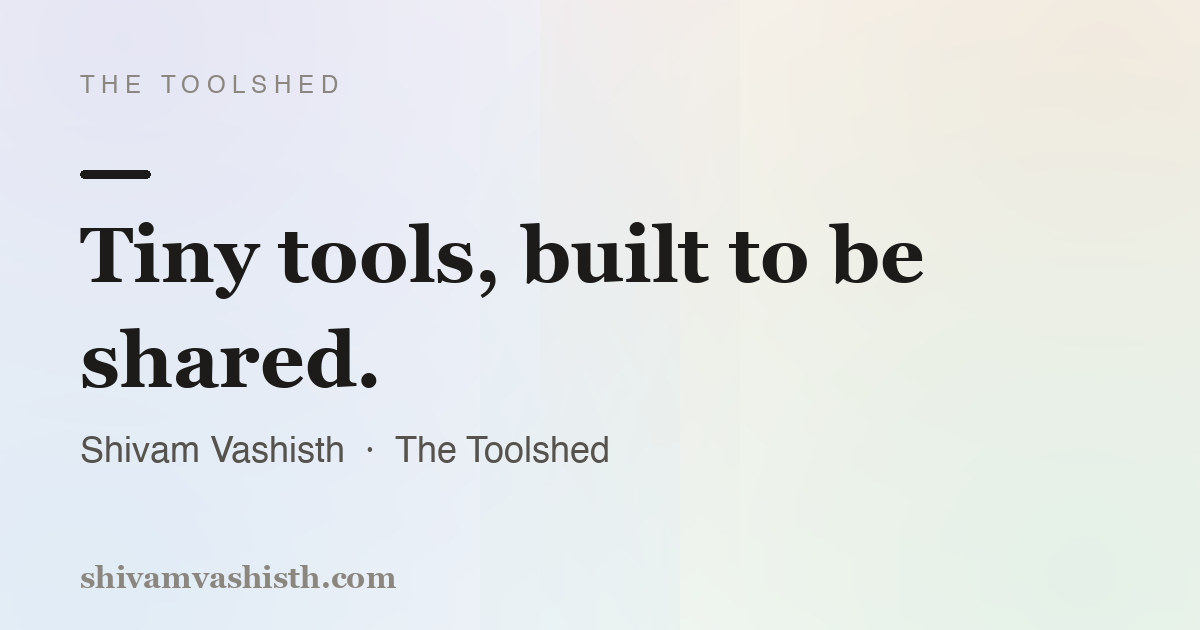
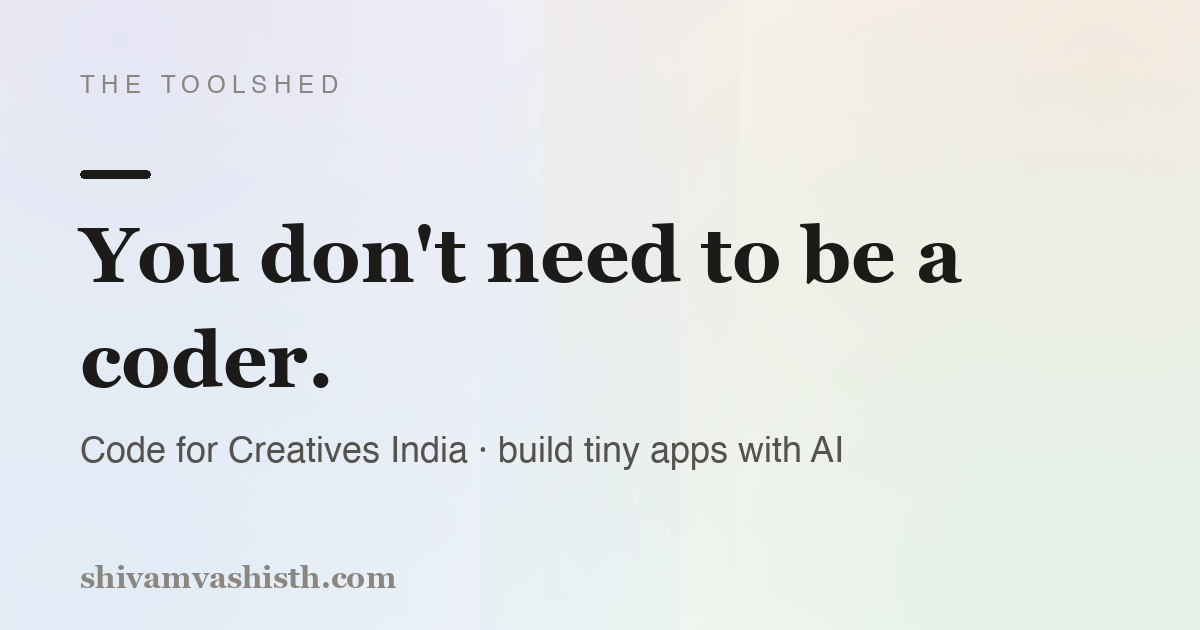
rebrand to Code for Creatives India
New hero (you don't need to be a coder), the Where it breaks mission section, rename Toolshed to the Garage, three-ways block, I-actually-reply trust strip, hover and tap jargon definitions, Garage microcopy. House style, no em dashes.

Changed region(s): [[0.0617, 0.3317, 0.8017, 0.4825], [0.0617, 0.6937, 0.7092, 0.754], [0.0617, 0.5127, 0.3083, 0.6333]]

diff --git a/index.html b/index.html
@@ -3,12 +3,12 @@
 <head>
 <meta charset="UTF-8">
 <meta name="viewport" content="width=device-width, initial-scale=1.0">
-<title>Shivam Vashisth — operator, not engineer. Tiny tools, built to be shared.</title>
-<meta name="description" content="I make small things on the internet. Some are useful, all are quick. A shed of tiny share-first tools, shipped weekly with AI.">
+<title>Code for Creatives India: you don't need to be a coder. Build tiny apps with AI.</title>
+<meta name="description" content="Code for Creatives India. A YouTube strategist building tiny apps with AI, and showing creators how to build their own. No dev team, no CS degree.">
 <link rel="canonical" href="https://shivamvashisth.com/">
 <meta property="og:type" content="website">
-<meta property="og:title" content="Shivam Vashisth — The Toolshed">
-<meta property="og:description" content="Operator, not engineer. I build tiny tools, most of them made to be shared.">
+<meta property="og:title" content="Code for Creatives India: you don't need to be a coder">
+<meta property="og:description" content="I'm a YouTube strategist who builds tiny apps with AI. If you can write a prompt, you can build one too. I'll show you how.">
 <meta property="og:url" content="https://shivamvashisth.com/">
 <meta property="og:image" content="https://shivamvashisth.com/assets/og-home.png">
 <meta name="twitter:card" content="summary_large_image">
@@ -17,12 +17,12 @@
 <link rel="stylesheet" href="/assets/brand.css">
 </head>
 <body>
-<h1 class="sr-only">Shivam Vashisth — The Toolshed: tiny tools built to be shared</h1>
+<h1 class="sr-only">Code for Creatives India: you don't need to be a coder to build tiny apps with AI</h1>
 
 <nav class="nav"><div class="wrap">
   <a class="brand" href="/">Shivam&nbsp;Vashisth</a>
   <div class="links">
-    <a href="#toolshed">The Toolshed</a>
+    <a href="#toolshed">The Garage</a>
     <a href="#cases" class="hide-sm">Case studies</a>
     <a href="#about" class="hide-sm">About</a>
     <a href="#contact">Contact</a>
@@ -46,12 +46,13 @@
         </svg>
       </div>
       <p class="eyebrow" style="margin-top:18px">Hi, I'm Shivam</p>
-      <h1 style="margin-top:0"><span class="ink-underline">Operator, not engineer.</span></h1>
-      <p class="lead">I build tiny tools — most of them made to be shared. Words, data, and small machines, shipped weekly with AI.</p>
+      <h1 style="margin-top:0"><span class="ink-underline">You don't need to be a coder.</span></h1>
+      <p class="lead">Code for Creatives India. I'm a YouTube strategist who builds tiny apps with AI: no dev team, no CS degree. If you can write a <span class="jargon" data-define="prompt">prompt</span>, you can build one too. I'll show you how.</p>
       <div class="row" style="margin-top:8px">
-        <a class="btn" href="#toolshed">Explore the Toolshed</a>
-        <a class="btn ghost" href="#contact">Say hi</a>
+        <a class="btn" href="#toolshed">Open the Garage</a>
+        <a class="btn ghost" href="https://instagram.com/svx2027" target="_blank" rel="noopener">Follow on Instagram</a>
       </div>
+      <p class="jargon-hint" style="margin-top:14px">Tip: tap any underlined word (like <span class="jargon" data-define="prompt">prompt</span>) for plain English.</p>
     </div>
 
     <!-- micro-toy: Thumbnail Showdown -->
@@ -67,19 +68,32 @@
         <span class="muted mono" style="font-size:.8rem">best <span id="sd-best">0</span></span>
         <button class="btn ghost" id="sd-share" style="padding:.5rem 1rem;font-size:.9rem">Share my streak</button>
       </div>
+      <p class="muted" style="font-size:.78rem;margin:12px 0 0">Built by a YouTube strategist, so the thumbnails fight dirty.</p>
     </div>
   </div>
-  <p class="center muted" style="margin-top:44px;font-size:.9rem">↓ scroll to the shed</p>
+  <p class="center muted" style="margin-top:44px;font-size:.9rem">↓ scroll to the garage</p>
 </header>
 
-<!-- ===================== TOOLSHED ===================== -->
+<!-- ===================== MISSION ===================== -->
+<section id="mission">
+<div class="wrap" style="max-width:720px">
+  <p class="eyebrow">The mission</p>
+  <h2>Where it breaks</h2>
+  <p class="lead">Right now, someone in Sweden is building something brilliant and putting it on <span class="jargon" data-define="github">GitHub</span>, free, for anyone on earth to use. A creator sitting here could grow with that exact tool. They never will.</p>
+  <p>Not because they lack the talent. Because nobody gave them the words. What GitHub is. How to actually run the thing once you find it. How a <span class="jargon" data-define="skill">skill</span> in Claude could quietly do half your work. The tool is free. The talent is real. The bridge between them was never built, so it sits there, useless to the people who need it most, while their growth stalls in silence.</p>
+  <p>That is the gap I care about, and it is the whole reason this exists. I am not here to build your tools for you. I am here to hand you the vocabulary: enough words to open a real conversation with AI, ask the right next question, and then teach yourself, about ten times faster than guessing in the dark.</p>
+  <p class="mission-close serif">Give a creator the words, and they cross the bridge on their own.</p>
+</div>
+</section>
+
+<!-- ===================== THE GARAGE ===================== -->
 <section id="toolshed">
 <div class="wrap">
-  <p class="eyebrow center">The Toolshed</p>
-  <h2 class="center">A shed of tiny tools</h2>
-  <p class="lead center" style="margin:0 auto 28px">Live ones open in a tap. The rest are brewing — the shed fills up week by week.</p>
+  <p class="eyebrow center">The Garage</p>
+  <h2 class="center">A garage full of tiny apps</h2>
+  <p class="lead center" style="margin:0 auto 28px">Built in public. Live builds open in a tap. The rest are up on blocks, getting finished. New one most weeks: follow <a href="https://instagram.com/svx2027" target="_blank" rel="noopener">@svx2027</a> to watch each one come together, ugly first drafts and all.</p>
 
-  <div class="filters center" role="tablist" aria-label="Filter tools">
+  <div class="filters center" role="tablist" aria-label="Filter apps">
     <button class="chip active" data-filter="all">All</button>
     <button class="chip" data-filter="everyone">For everyone</button>
     <button class="chip" data-filter="creator">For creators</button>
@@ -97,18 +111,18 @@
   <div class="cases">
     <article class="card pad">
       <h3>This very site</h3>
-      <p>Built blank-folder-to-live in an afternoon: static HTML, a shared canvas "share-card" engine, and a pastel watercolour brand in one CSS file. No framework, no database.</p>
-      <p class="muted" style="font-size:.9rem"><strong>Skipped:</strong> a CMS. Every page is just files — easy to host anywhere, free.</p>
+      <p>Built blank-folder-to-live in an afternoon: <span class="jargon" data-define="static">static</span> HTML, a shared <span class="jargon" data-define="canvas">canvas</span> share-card engine, and a pastel watercolour brand in one CSS file. No framework, no database.</p>
+      <p class="muted" style="font-size:.9rem"><strong>Skipped:</strong> a CMS. Every page is just files, so it is easy to host anywhere, free.</p>
     </article>
     <article class="card pad">
       <h3>The share-card pattern</h3>
-      <p>Every tool exports a 1080×1920 PNG from a single reusable canvas function. Build it once, reuse it everywhere — the card <em>is</em> the marketing.</p>
+      <p>Every app exports a 1080×1920 <span class="jargon" data-define="png">PNG</span> from a single reusable canvas function. Build it once, reuse it everywhere: the card <em>is</em> the marketing.</p>
       <p class="muted" style="font-size:.9rem"><strong>Skipped:</strong> server-side image rendering. The browser draws it; nothing leaves your device.</p>
     </article>
     <article class="card pad">
       <h3>Privacy by default</h3>
-      <p>Life in Weeks never sends your birthday anywhere. Aligned encodes its quiz state in the URL, so two people can play with zero backend.</p>
-      <p class="muted" style="font-size:.9rem"><strong>Skipped:</strong> accounts and tracking, until a tool genuinely needs them.</p>
+      <p>Life in Weeks never sends your birthday anywhere. Aligned encodes its quiz state in the URL, so two people can play with zero <span class="jargon" data-define="backend">backend</span>.</p>
+      <p class="muted" style="font-size:.9rem"><strong>Skipped:</strong> accounts and tracking, until an app genuinely needs them.</p>
     </article>
   </div>
 </div>
@@ -118,24 +132,49 @@
 <section id="about">
 <div class="wrap" style="max-width:760px">
   <p class="eyebrow">About</p>
-  <h2>From notes to tiny machines</h2>
-  <p class="lead">I spend my days deep in content and data — competitive intelligence for education YouTube, transcripts, market data. Along the way I kept building little tools to make the work less manual.</p>
-  <p>This shed is where the general-audience ones live: small, fast, and built so the output is something you'd actually want to post. I'm an operator who learned to ship with AI in the terminal — the judgment of <em>what</em> to build matters more than the code.</p>
+  <h2>If I can do this, you can too</h2>
+  <p class="lead">By day I'm a YouTube strategist, deep in content and data: competitive intelligence for education channels, transcripts, market numbers. I kept building little tools to make the grind less manual, then realised creators everywhere fight the same grind.</p>
+  <p>So I started Code for Creatives India: tiny apps anyone can build with AI, no dev team, no degree. I learned to do this with AI doing the heavy lifting, which means the judgment of <em>what</em> to build matters far more than the code. I'm documenting the whole thing on <a href="https://instagram.com/svx2027" target="_blank" rel="noopener">Instagram</a>.</p>
 </div>
 </section>
 
-<!-- ===================== CONTACT / NOW ===================== -->
-<section id="contact">
+<!-- ===================== TRUST STRIP ===================== -->
+<section id="reply">
 <div class="wrap" style="max-width:680px">
   <div class="card pad center">
-    <p class="eyebrow">Now &amp; next</p>
-    <h2 style="margin-bottom:.3rem">Shipping a new tool most weeks</h2>
-    <p class="lead" style="margin:0 auto 20px">Drop your email and I'll send the next one when it's live. No spam, just tools.</p>
-    <form id="subscribe" class="row" style="justify-content:center;gap:10px;flex-wrap:nowrap;max-width:460px;margin:0 auto">
-      <input type="email" id="sub-email" placeholder="you@email.com" aria-label="Your email" required>
-      <button class="btn" type="submit">Notify me</button>
-    </form>
-    <p class="muted" style="font-size:.85rem;margin-top:14px">or just email <a href="mailto:hi@shivamvashisth.com">hi@shivamvashisth.com</a></p>
+    <p class="eyebrow">Trust</p>
+    <h2 style="margin-bottom:.3rem">I actually reply.</h2>
+    <p class="lead" style="margin:0 auto 20px">No funnel, no auto-DM, no growth hack. Ask me anything on Instagram and I answer it myself. In a feed full of automation, that is the whole trust pitch.</p>
+    <a class="btn" href="https://instagram.com/svx2027" target="_blank" rel="noopener">DM me on Instagram</a>
+  </div>
+</div>
+</section>
+
+<!-- ===================== CONTACT / STICK AROUND ===================== -->
+<section id="contact">
+<div class="wrap" style="max-width:680px">
+  <div class="card pad">
+    <p class="eyebrow center">Stick around</p>
+    <h2 class="center" style="margin-bottom:1.4rem">Three ways to stick around</h2>
+    <div class="ways">
+      <div class="way">
+        <h3>Bookmark the Garage</h3>
+        <p>It restocks every week. Ctrl+D, or Cmd+D on Mac, and come back.</p>
+      </div>
+      <div class="way">
+        <h3>Get the drop</h3>
+        <p>Leave your email and I'll send the next app the day it goes live. No spam, just tools.</p>
+        <form id="subscribe" class="row" style="gap:10px;flex-wrap:nowrap;max-width:460px;margin-top:8px">
+          <input type="email" id="sub-email" placeholder="you@email.com" aria-label="Your email" required>
+          <button class="btn" type="submit">Send me the next app</button>
+        </form>
+      </div>
+      <div class="way">
+        <h3>Follow the build</h3>
+        <p><a href="https://instagram.com/svx2027" target="_blank" rel="noopener">@svx2027</a> on Instagram, where I show the messy middle and reply to every DM myself. No bots, no VA. That's me.</p>
+        <a class="btn ghost" href="https://instagram.com/svx2027" target="_blank" rel="noopener" style="margin-top:8px">Follow on Instagram</a>
+      </div>
+    </div>
   </div>
 </div>
 </section>
@@ -168,6 +207,13 @@
   .tool-card p{margin:0;font-size:.9rem;color:var(--ink-soft)}
   .tool-card .tags{display:flex;gap:6px;flex-wrap:wrap;margin-top:auto;padding-top:6px}
   .cases{display:grid;grid-template-columns:repeat(3,1fr);gap:18px;margin-top:8px}
+  .ways{display:grid;gap:1.3rem}
+  .way{padding-bottom:1.3rem;border-bottom:1px solid var(--line)}
+  .way:last-child{border-bottom:0;padding-bottom:0}
+  .way h3{margin:0 0 .25rem;font-size:1.1rem}
+  .way p{margin:0}
+  #mission{padding-top:40px}
+  .mission-close{font-size:1.4rem;line-height:1.32;color:var(--ink);margin:1.5rem 0 0;padding-top:1.3rem;border-top:1px solid var(--line)}
   @media(max-width:820px){.hero-grid{grid-template-columns:1fr!important}.grid{grid-template-columns:repeat(2,1fr)}.cases{grid-template-columns:1fr}}
   @media(max-width:560px){.grid{grid-template-columns:1fr}.sd-thumb .pic{height:88px}}
 </style>
@@ -177,7 +223,7 @@
 <script>
   document.getElementById('foot').innerHTML = TS.footer();
 
-  /* ---------- Toolshed grid ---------- */
+  /* ---------- the Garage grid ---------- */
   const TOOLS = [
     {slug:'life-in-weeks', name:'Life in Weeks', desc:'See your whole life as a grid of weeks, then post it.', aud:'everyone', live:true, c:'#DCEAF5', ac:'#2f6fae', icon:'grid'},
     {slug:'read-rate', name:'Read Rate', desc:'Find your real reading speed in 60 seconds.', aud:'everyone', live:true, c:'#DFF0E6', ac:'#2f8f63', icon:'gauge'},
@@ -202,7 +248,7 @@
   const grid = document.getElementById('grid');
   function renderGrid(filter='all'){
     grid.innerHTML = TOOLS.filter(t=>filter==='all'||t.aud===filter).map(t=>{
-      const tag = `<span class="pill ${t.live?'live':'brewing'}">${t.live?'live':'brewing'}</span><span class="pill ${t.aud}">${t.aud==='creator'?'creators':'everyone'}</span>`;
+      const tag = `<span class="pill ${t.live?'live':'brewing'}">${t.live?'live':'on blocks'}</span><span class="pill ${t.aud}">${t.aud==='creator'?'creators':'everyone'}</span>`;
       const inner = `<div class="ic" style="background:${t.c}">${svgIcon(t.icon,t.ac)}</div>
         <h3>${t.name}</h3><p>${t.desc}</p><div class="tags">${tag}</div>`;
       return t.live
@@ -225,7 +271,7 @@
     if (!Array.isArray(subs)) subs = [];
     subs.push({ email: v, tool: 'home', at: new Date().toISOString() });
     try{ localStorage.setItem('ts_sub', JSON.stringify(subs)); }catch(_){}
-    TS.toast('Thanks! I’ll email you when the next tool ships.');
+    TS.toast('Thanks! I’ll email you when the next app ships.');
     e.target.reset();
   });
 </script>

diff --git a/assets/shared.js b/assets/shared.js
@@ -162,17 +162,72 @@
   TS.footer = function () {
     const year = new Date().getFullYear();
     return `<footer class="foot"><div class="wrap">
-      <span>© ${year} Shivam Vashisth · built with AI, shipped weekly</span>
-      <span><a href="/">The Toolshed</a> · <a href="mailto:hi@shivamvashisth.com">hi@shivamvashisth.com</a></span>
+      <span>Made in a garage, with AI, by one creator who replies to DMs.</span>
+      <span>© ${year} Code for Creatives India · <a href="/">The Garage</a> · <a href="https://instagram.com/svx2027" target="_blank" rel="noopener">@svx2027</a> · <a href="mailto:hi@shivamvashisth.com">hi@shivamvashisth.com</a></span>
     </div></footer>`;
   };
 
-  // standard back-to-shed bar for tool pages
+  // standard back-to-Garage bar for tool pages
   TS.toolnav = function () {
     return `<nav class="toolnav"><div class="wrap">
-      <a class="back" href="/">← The Toolshed</a>
+      <a class="back" href="/">← The Garage</a>
       <a class="back" href="/#toolshed">more tools</a>
     </div></nav>`;
+  };
+
+  /* ---------- jargon: plain-English definitions on hover / tap ---------- */
+  TS.GLOSSARY = {
+    prompt: "What you type to tell an AI what you want.",
+    terminal: "The text window where you type commands. Scarier-looking than it is.",
+    ship: "To actually release it, not just plan it forever.",
+    "no-code": "Building software with visual tools or AI, without writing code.",
+    static: "A website that is just files. Fast, cheap, hard to break.",
+    canvas: "The browser's drawing board. It's how the share-cards get made.",
+    backend: "The server side you never see. Most apps here skip it.",
+    api: "A way for two apps to talk to each other.",
+    png: "An image file, the kind you would actually post.",
+    github: "A giant, free library of code and tools anyone can use.",
+    skill: "A saved instruction pack that teaches an AI one specific job."
+  };
+  var jCount = 0;
+  TS.initJargon = function () {
+    var nodes = document.querySelectorAll('.jargon[data-define]');
+    for (var i = 0; i < nodes.length; i++) {
+      (function (el) {
+        if (el._jReady) return;
+        var key = (el.getAttribute('data-define') || el.textContent || '').trim().toLowerCase();
+        var def = TS.GLOSSARY[key];
+        if (!def) return;
+        el._jReady = true;
+        var pop = document.createElement('span');
+        pop.className = 'jargon-pop';
+        pop.id = 'jdef-' + (++jCount);
+        pop.setAttribute('role', 'tooltip');
+        pop.textContent = def; // textContent only — never innerHTML
+        el.appendChild(pop);
+        el.setAttribute('tabindex', '0');
+        el.setAttribute('aria-describedby', pop.id);
+        function toggle(e) {
+          e.preventDefault(); e.stopPropagation();
+          var willOpen = !el.classList.contains('open');
+          var others = document.querySelectorAll('.jargon.open');
+          for (var k = 0; k < others.length; k++) others[k].classList.remove('open');
+          if (willOpen) el.classList.add('open');
+        }
+        el.addEventListener('click', toggle);
+        el.addEventListener('keydown', function (e) {
+          if (e.key === 'Enter' || e.key === ' ') toggle(e);
+          else if (e.key === 'Escape') el.classList.remove('open');
+        });
+      })(nodes[i]);
+    }
+    if (!TS._jDoc) {
+      TS._jDoc = true;
+      document.addEventListener('click', function () {
+        var open = document.querySelectorAll('.jargon.open');
+        for (var k = 0; k < open.length; k++) open[k].classList.remove('open');
+      });
+    }
   };
 
   /* ---------- theme (light / dark) ---------- */
@@ -211,6 +266,7 @@
 
   window.TS = TS;
 
-  if (document.readyState === 'loading') document.addEventListener('DOMContentLoaded', TS.initTheme);
-  else TS.initTheme();
+  function TS_init() { TS.initTheme(); TS.initJargon(); }
+  if (document.readyState === 'loading') document.addEventListener('DOMContentLoaded', TS_init);
+  else TS_init();
 })();

diff --git a/assets/brand.css b/assets/brand.css
@@ -230,6 +230,35 @@ body { transition: background-color .45s ease, color .35s ease; }
 [data-theme="dark"] .chip { background: rgba(255,255,255,.05); color: var(--ink-soft); border-color: var(--line-strong); }
 [data-theme="dark"] .chip.active { background: var(--ink); color: var(--paper); border-color: var(--ink); }
 
+/* ---------- jargon: gently-defined tech terms ---------- */
+.jargon {
+  border-bottom: 1px dotted var(--ink-faint);
+  cursor: help; position: relative; color: inherit; text-decoration: none;
+}
+.jargon:focus-visible { outline: 2px solid var(--acc-sky); outline-offset: 2px; border-radius: 2px; }
+.jargon-pop {
+  display: none;
+  position: absolute; left: 50%; bottom: calc(100% + 9px);
+  transform: translateX(-50%);
+  width: max-content; max-width: min(240px, 78vw);
+  background: var(--card); color: var(--ink-soft);
+  border: 1px solid var(--line-strong); border-radius: var(--r-sm); box-shadow: var(--shadow-lift);
+  padding: .5rem .65rem;
+  font-family: var(--font-body); font-size: .82rem; font-weight: 400; line-height: 1.45;
+  letter-spacing: normal; text-transform: none; text-align: left; white-space: normal;
+  z-index: 120;
+}
+.jargon-pop::after {
+  content: ""; position: absolute; top: 100%; left: 50%; transform: translateX(-50%);
+  border: 5px solid transparent; border-top-color: var(--card);
+}
+.jargon:hover .jargon-pop, .jargon:focus .jargon-pop,
+.jargon:focus-within .jargon-pop, .jargon.open .jargon-pop {
+  display: block;
+}
+.jargon-hint { font-size: .82rem; color: var(--ink-faint); }
+.jargon-hint .jargon { border-bottom-style: dotted; }
+
 /* reduced motion */
 @media (prefers-reduced-motion: reduce) {
   * { animation: none !important; transition: none !important; scroll-behavior: auto !important; }

diff --git a/t/outlier-radar/index.html b/t/outlier-radar/index.html
@@ -39,13 +39,13 @@
   <main class="wrap">
     <div class="brew-wrap">
       <div class="card pad brew-card">
-        <p class="eyebrow">brewing</p>
+        <p class="eyebrow">up on blocks</p>
         <div class="pill-row">
           <span class="pill creator">for creators</span>
-          <span class="pill brewing">brewing</span>
+          <span class="pill brewing">on blocks</span>
         </div>
-        <h2 class="serif">See what's overperforming in your niche right now — ranked, with a one-line read on why.</h2>
-        <p class="lead">Not the biggest channels — the biggest surprises. Outlier Radar finds videos beating their own baseline and tells you, briefly, what's working.</p>
+        <h2 class="serif">See what's overperforming in your niche right now: ranked, with a one-line read on why.</h2>
+        <p class="lead">Not the biggest channels, the biggest surprises. Outlier Radar finds videos beating their own baseline and tells you, briefly, what's working.</p>
         <ul class="brew-list">
           <li>Scores each recent upload against its OWN channel's baseline — an outlier multiplier — plus views-per-hour velocity.</li>
           <li>YouTube-first via the public YouTube Data API. Instagram is best-effort and manual.</li>

diff --git a/t/comment-goldmine/index.html b/t/comment-goldmine/index.html
@@ -39,10 +39,10 @@
   <main class="wrap">
     <div class="brew-wrap">
       <div class="card pad brew-card">
-        <p class="eyebrow">brewing</p>
+        <p class="eyebrow">up on blocks</p>
         <div class="pill-row">
           <span class="pill creator">for creators</span>
-          <span class="pill brewing">brewing</span>
+          <span class="pill brewing">on blocks</span>
         </div>
         <h2 class="serif">Turn a video's comments into the ten videos your audience is begging for.</h2>
         <p class="lead">Your comment section is a request list in disguise. Comment Goldmine reads it and hands back exactly what to make next.</p>

diff --git a/t/sealed/index.html b/t/sealed/index.html
@@ -39,10 +39,10 @@
   <main class="wrap">
     <div class="brew-wrap">
       <div class="card pad brew-card">
-        <p class="eyebrow">brewing</p>
+        <p class="eyebrow">up on blocks</p>
         <div class="pill-row">
           <span class="pill everyone">for everyone</span>
-          <span class="pill brewing">brewing</span>
+          <span class="pill brewing">on blocks</span>
         </div>
         <h2 class="serif">Write a letter to your future self, delivered on the date you choose.</h2>
         <p class="lead">Say something to the version of you reading this a year from now. We hold it, sealed, until the day arrives.</p>
